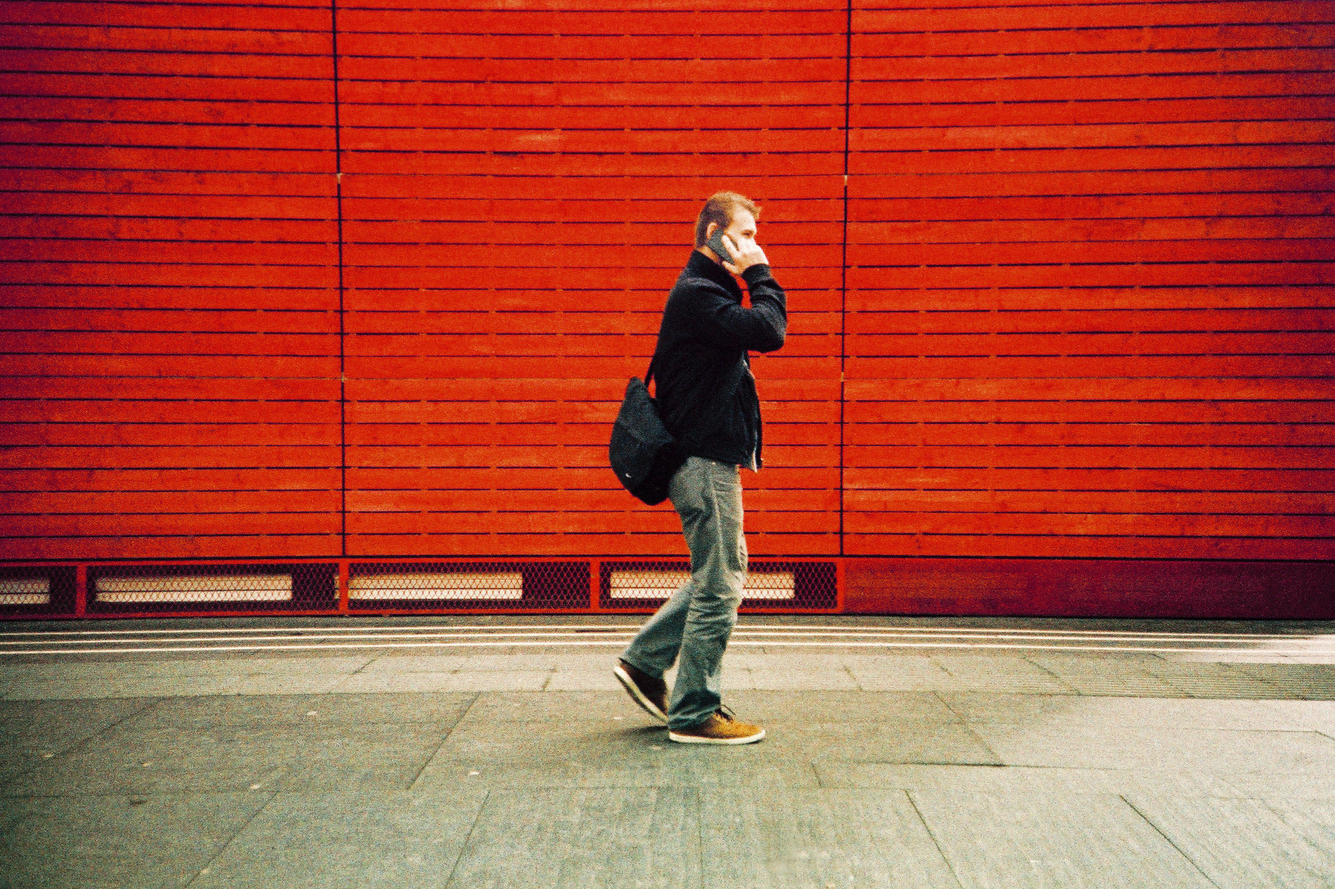
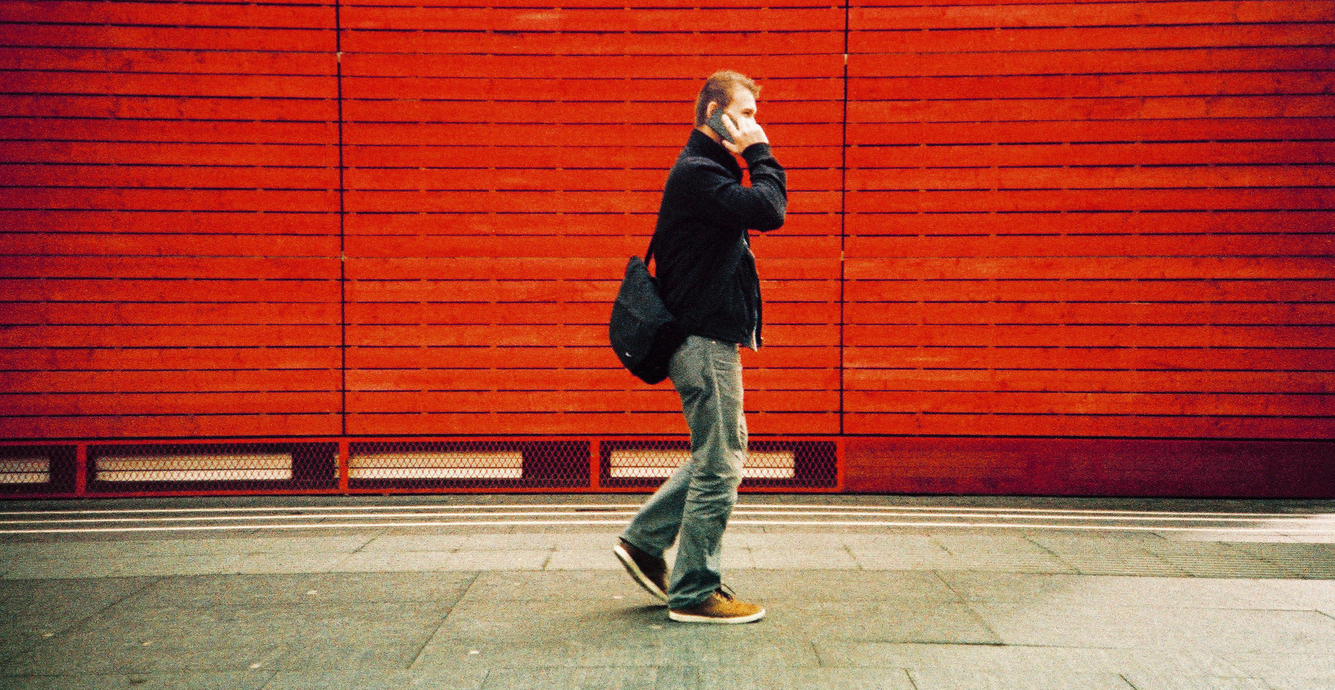
Modify more in home page

diff --git a/src/Server/public/views/home.html b/src/Server/public/views/home.html
@@ -2,12 +2,14 @@
   <div class="section no-pad-bot">
     <div class="container">
       <br><br><br>
-      <h1 class="header center white-text">Start a new Shipment</h1>
+      <h1 class="header center white-text hide-on-small-only">Start a new Shipment</h1>
+      <h3 class="header center white-text hide-on-med-and-up">Start a new Shipment</h3>
       <div class="row center">
         <h5 class="header col s12 light white-text">Select a destinaton for your shipping on the map</h5>
       </div>
-      <div class="row center" style="margin-top: 15vh">
-        <a class="waves-effect waves-light btn" style="background-color: #ffa337">Get Start</a>
+      <br>
+      <div class="row center">
+        <a href="#!/newrequest" class="waves-effect waves-light btn" style="background-color: #ffa337">Get Start</a>
       </div>
       <br><br>
     </div>
@@ -15,23 +17,30 @@
 </div>
 <br>
 <div class="container">
-  <div class="card row center" style="background-color: #FFE1BF;">
-    <div class="card-image col s12 m8 l6" style="padding: 0 0">
+  <div class="card row center">
+    <div class="card-image col s12 hide-on-med-and-up" style="padding: 0 0; background-image: url(images/messenger.jpg); background-size: cover; min-height: 250px; background-position: center top; background-repeat: no-repeat">
+        <br>
+        <h5 class="white-text">Be a messenger</h5>
+        <p class="white-text">Start your journey with income.</p>
+        <br>
+        <center><a href="#!/beamessenger" class="waves-effect waves-light btn center" style="background-color: #ffa337">Join Us</a></center>
+        <br>  
+    </div>
+    <div class="card-image col s12 m7 hide-on-small-only" style="padding: 0 0">
       <img src="images/messenger.jpg">
     </div>
-    <div class="col s12 m3 l5" style="margin: 15px; text-align: left">
+    <div class="col s12 m5 hide-on-small-only" style="text-align: left; padding-left: 20px; padding-bottom: 20px">
       <h5>Be a messenger</h5>
-      <p>bla bla bla bla bla bla bla bla bla bla bla bla bla</p>
-      <br>
+      <p>Start your journey with income.</p>      
       <center><a class="waves-effect waves-light btn center" style="background-color: #ffa337">Join Us</a></center>
     </div>
   </div>
 </div>
 <br>
-<div class="container">
+<div class="container" style="width: 90%">
   <div class="row">
-    <div class="col s12 m6 l4" style="height: 300px; overflow: hidden; margin-bottom: 20px" ng-repeat="image in images">
-      <img ng-src="{{ image }}" width="100%" height="100%">
-    </div>
+    <div class="col s12 m6 l4" style="overflow: hidden; margin-bottom: 20px" ng-repeat="image in images">      
+      <div style="padding: 0 0; background-image: url({{image}}); background-size: cover; height: 300px; background-position: center top; background-repeat: no-repeat">
+      </div>
   </div>
 </div>

diff --git a/src/Server/public/js/controllers/NewRequestController.js b/src/Server/public/js/controllers/NewRequestController.js
@@ -1,4 +1,4 @@
-app.controller('NewRequestController', ['$scope', '$http', '$cookies', '$location', '$timeout', function($scope, $http, $cookies, $location, $timeout) {
+app.controller('NewRequestController', ['$scope', '$http', '$cookies', '$location', '$timeout', 'loadUser', function($scope, $http, $cookies, $location, $timeout, loadUser) {
 
 	$scope.load = function() {
 		$('select').material_select();
@@ -28,7 +28,19 @@ app.controller('NewRequestController', ['$scope', '$http', '$cookies', '$locatio
 	};
 	$scope.request.sender_id = $scope.get_id();
 
+	$scope.checkLogin = function(){
+		var isLogin = loadUser.isLogIned();
+		if (!isLogin) {
+			alert('Please Log in !');
+		};
+		return isLogin;
+	}
+
 	$scope.createQuest = function() {
+		if (!$scope.checkLogin()){
+			return;
+		}
+				
 		$scope.request.fromLoc = $scope.markers[0].position[0] + ', ' + $scope.markers[0].position[1];
 		$scope.request.toLoc = $scope.markers[1].position[0] + ', ' + $scope.markers[1].position[1];
 
@@ -42,6 +54,7 @@ app.controller('NewRequestController', ['$scope', '$http', '$cookies', '$locatio
 		.error(function(data) {
 			console.log('Error: ' + data);
 		});
+		
 	};
 
 	// TODO makers splash

diff --git a/src/Server/public/index.html b/src/Server/public/index.html
@@ -29,7 +29,7 @@
 
 <body ng-app="rorpap">
 
-	<nav role="navigation" style="background-color: #ffa337" ng-controller="HeaderController"  ng-cloak>
+	<nav role="navigation" style="background-color: #ffa337; min-width: 320px" ng-controller="HeaderController"  ng-cloak>
 		<div class="nav-wrapper" style="height: 65px">
 
 			<a id="logo-container" href="#!/" class="brand-logo"><img src="images/Banner-Logo-White.png" height="60"></a>
@@ -73,16 +73,13 @@
 		</div>
 	</nav>
 
-	<div class="view-animate-container">
+	<div class="view-animate-container" style="background-color: #fff5eb">
 		<div ng-view class="view-animate">
 		</div>
 	</div>
 
 	<footer class="page-footer" style="background-color: #ffa337; clear: both;
-	position: relative;
-	z-index: 10;
-	height: -4.45em;
-	margin-top: 4.45em;" ng-cloak>
+	position: relative;z-index: 10; margin-top: 0" ng-cloak>
 	<div class="container">
 		<div class="row">
 			<div class="col l6 s12">

diff --git a/src/Server/public/js/controllers/HomeController.js b/src/Server/public/js/controllers/HomeController.js
@@ -2,6 +2,9 @@ app.controller('HomeController', ['$scope', function($scope) {
 	$scope.images = [
 		'images/woman.jpg',
 		'images/pic3.jpg',
-		'images/man.jpg'
+		'images/man.jpg',
+		'images/2bikers.jpg',
+		'images/gift.jpg',
+		'images/wdriver.jpg'
 	];
 }]);
